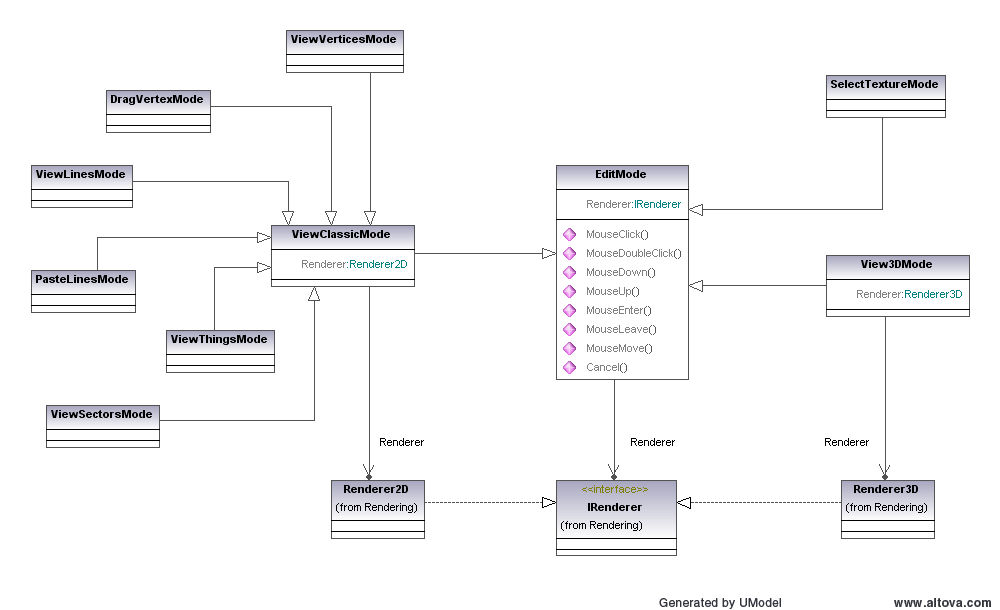
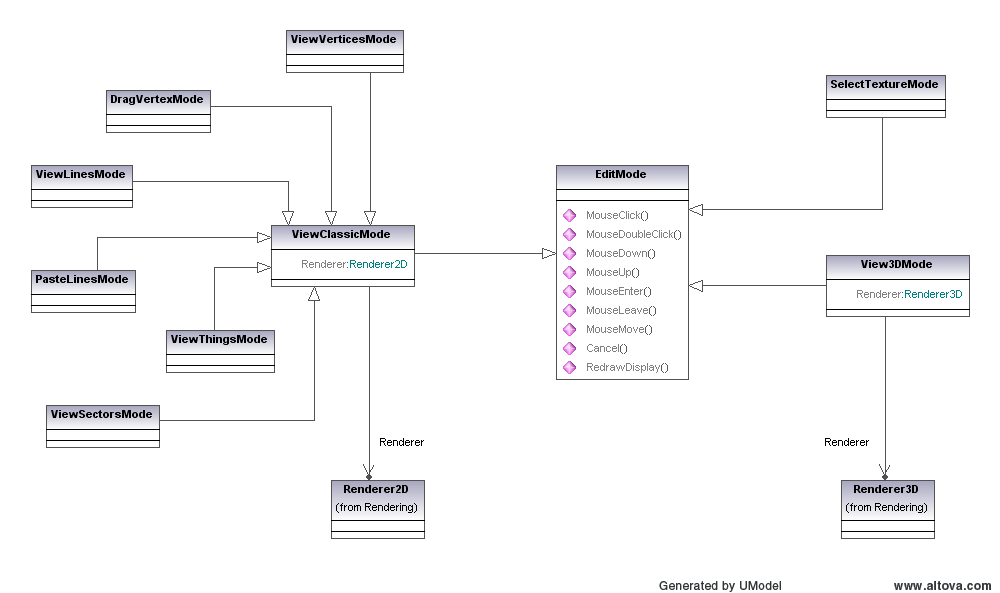
design diagram changes
git-svn-id: svn://svn.code.sf.net/p/doombuilder/code/trunk@24 e0d998f2-2e9b-42fe-843d-47128df60a06

diff --git a/Source/Rendering/Renderer2D.cs b/Source/Rendering/Renderer2D.cs
@@ -1,0 +1,85 @@
+
+#region ================== Copyright (c) 2007 Pascal vd Heiden
+
+/*
+ * Copyright (c) 2007 Pascal vd Heiden, www.codeimp.com
+ * This program is released under GNU General Public License
+ * 
+ * This program is distributed in the hope that it will be useful,
+ * but WITHOUT ANY WARRANTY; without even the implied warranty of
+ * MERCHANTABILITY or FITNESS FOR A PARTICULAR PURPOSE.  See the
+ * GNU General Public License for more details.
+ * 
+ */
+
+#endregion
+
+#region ================== Namespaces
+
+using System;
+using System.Collections;
+using System.Collections.Generic;
+using System.Globalization;
+using System.Text;
+using System.Windows.Forms;
+using System.IO;
+using System.Reflection;
+using System.Drawing;
+using Microsoft.DirectX.Direct3D;
+using System.ComponentModel;
+
+#endregion
+
+namespace CodeImp.DoomBuilder.Rendering
+{
+	internal class Renderer2D : IDisposable
+	{
+		#region ================== Constants
+
+		#endregion
+
+		#region ================== Variables
+
+		// Disposing
+		private bool isdisposed = false;
+
+		#endregion
+
+		#region ================== Properties
+
+		// Disposing
+		public bool IsDisposed { get { return isdisposed; } }
+
+		#endregion
+
+		#region ================== Constructor / Disposer
+
+		// Constructor
+		public Renderer2D()
+		{
+			// Initialize
+
+			// We have no destructor
+			GC.SuppressFinalize(this);
+		}
+
+		// Diposer
+		public void Dispose()
+		{
+			// Not already disposed?
+			if(!isdisposed)
+			{
+				// Clean up
+
+				// Done
+				isdisposed = true;
+			}
+		}
+
+		#endregion
+
+		#region ================== Methods
+
+		#endregion
+	}
+}

diff --git a/Source/Rendering/Renderer3D.cs b/Source/Rendering/Renderer3D.cs
@@ -1,0 +1,85 @@
+
+#region ================== Copyright (c) 2007 Pascal vd Heiden
+
+/*
+ * Copyright (c) 2007 Pascal vd Heiden, www.codeimp.com
+ * This program is released under GNU General Public License
+ * 
+ * This program is distributed in the hope that it will be useful,
+ * but WITHOUT ANY WARRANTY; without even the implied warranty of
+ * MERCHANTABILITY or FITNESS FOR A PARTICULAR PURPOSE.  See the
+ * GNU General Public License for more details.
+ * 
+ */
+
+#endregion
+
+#region ================== Namespaces
+
+using System;
+using System.Collections;
+using System.Collections.Generic;
+using System.Globalization;
+using System.Text;
+using System.Windows.Forms;
+using System.IO;
+using System.Reflection;
+using System.Drawing;
+using Microsoft.DirectX.Direct3D;
+using System.ComponentModel;
+
+#endregion
+
+namespace CodeImp.DoomBuilder.Rendering
+{
+	internal class Renderer3D : IDisposable
+	{
+		#region ================== Constants
+
+		#endregion
+
+		#region ================== Variables
+
+		// Disposing
+		private bool isdisposed = false;
+
+		#endregion
+
+		#region ================== Properties
+
+		// Disposing
+		public bool IsDisposed { get { return isdisposed; } }
+
+		#endregion
+
+		#region ================== Constructor / Disposer
+
+		// Constructor
+		public Renderer3D()
+		{
+			// Initialize
+
+			// We have no destructor
+			GC.SuppressFinalize(this);
+		}
+
+		// Diposer
+		public void Dispose()
+		{
+			// Not already disposed?
+			if(!isdisposed)
+			{
+				// Clean up
+
+				// Done
+				isdisposed = true;
+			}
+		}
+
+		#endregion
+
+		#region ================== Methods
+
+		#endregion
+	}
+}
